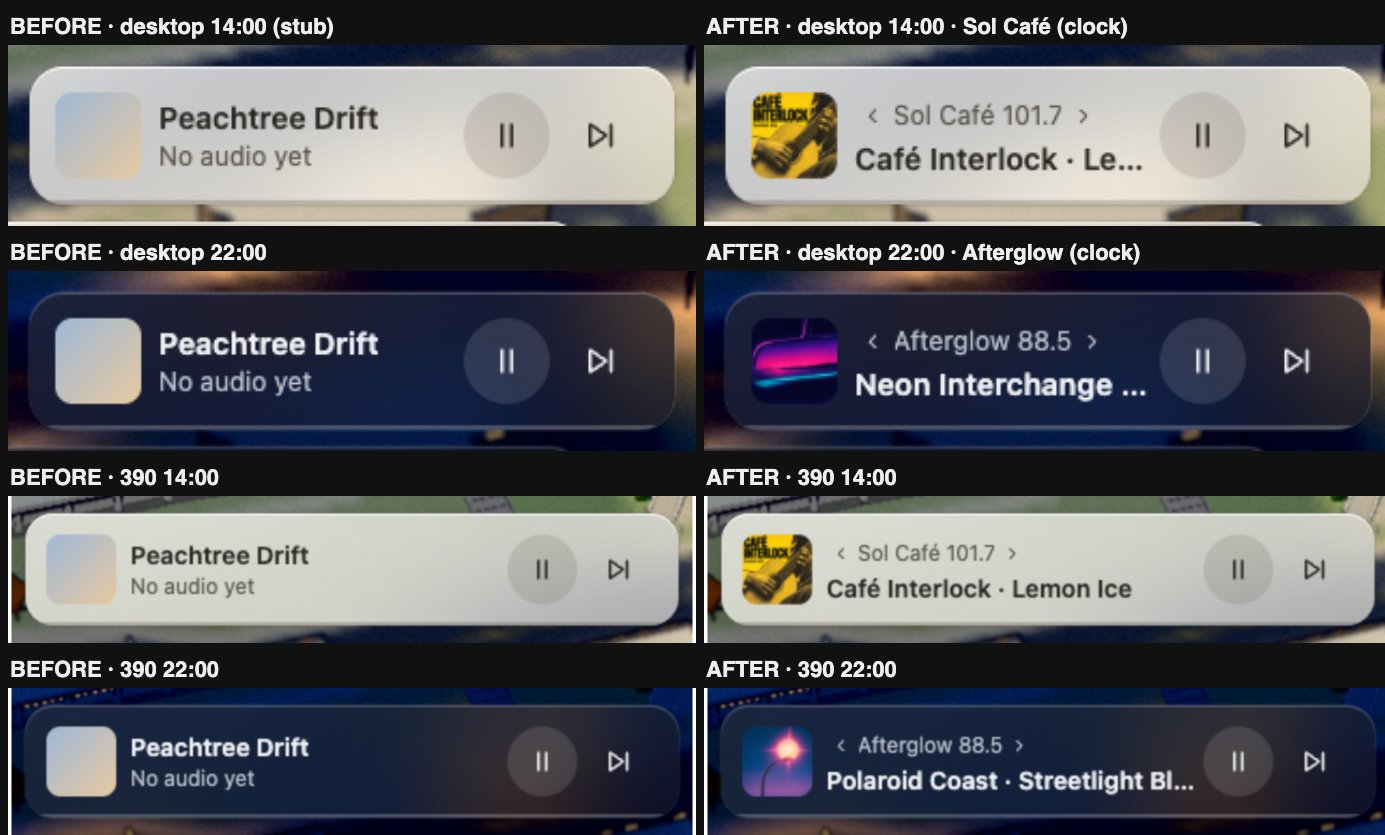
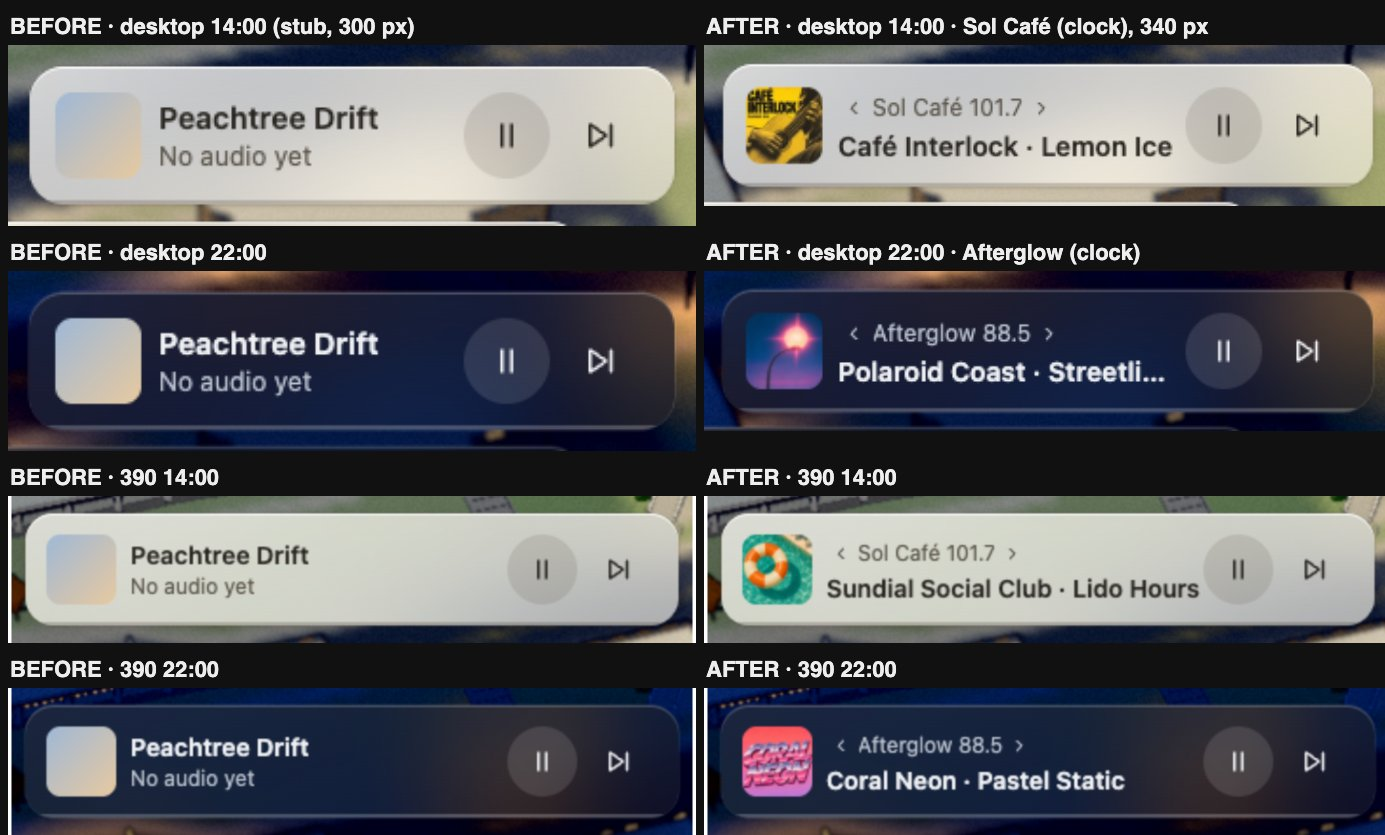
Radio: prefetch on open, a loading arc, Play before the list loads, 340 px player
Design answers (brief on ui-frosted-glass @ 874e9f7c): the current track's
file is fetched when the panel opens; a Play tap before it arrives shows the
station, cover and title at once with a spinning 18 px arc (aria-busy, still
under reduced motion) and sound starts with the 300 ms ramp when the file
lands. Play also works before stations.json arrives. The desktop player is
340 px; Artist · Title keeps one line with the full text as tooltip and
accessible name; the ‹ › glyphs get 44×44 hit areas. On iOS the audio
session plays as media so the silent switch doesn't mute it. Tests cover
buffering, prefetch reuse and release, and that no more than two files are
held across 25 crossfades.

diff --git a/web/src/ui/next/shell.ts b/web/src/ui/next/shell.ts
@@ -285,7 +285,8 @@ export function createShellNext(o: ShellOptions): ShellApi {
       const url = SITE + t.cover.small;
       if (art.dataset.src !== url) {
         art.dataset.src = url;
-        const img = el('img', { src: url, alt: '', width: '40', height: '40', decoding: 'async' });
+        // High priority: on a slow link the cover shouldn't wait behind the prefetching MP3.
+        const img = el('img', { src: url, alt: '', width: '40', height: '40', decoding: 'async', fetchpriority: 'high' });
         art.replaceChildren(img);
       }
     }
